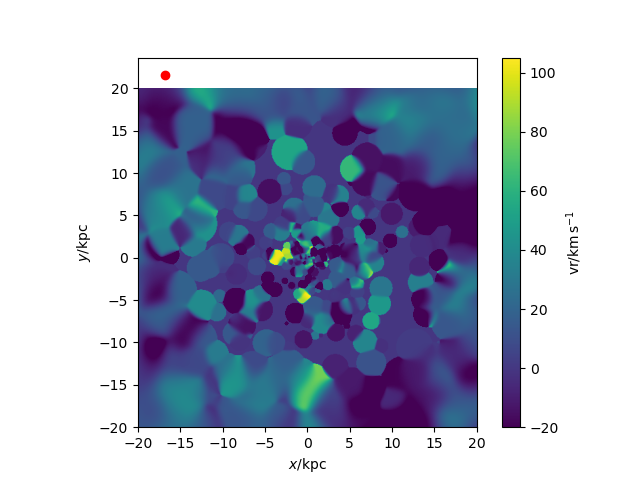
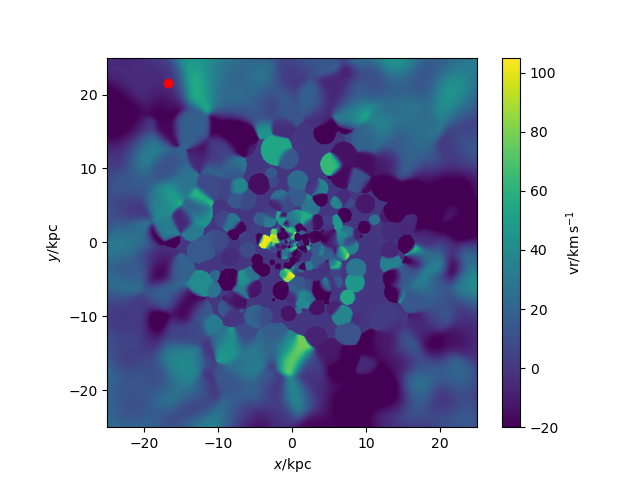
axis updated

diff --git a/r306/galaxy306_iongas.py b/r306/galaxy306_iongas.py
@@ -13,13 +13,14 @@ s=pynbody.load('/mnt/data0/jillian/gguaman/r306/cosmo25p.768sg1bwK1BHe75.007779'
 s.physical_units()
 
 #centering halo
-pynbody.analysis.angmom.faceon(s)
+#pynbody.analysis.angmom.faceon(s)
+pynbody.analysis.angmom.sideon(s)
 
 #filter to only use ionised gas
 GasFilter = pynbody.filt.HighPass('temp','15848 K')
 
 #creating image to show velocity of ionised gas
-sph.image(s.g[GasFilter],qty="vr",vmin=-20,width=40,denoise=True,approximate_fast=False,log=False)
+sph.image(s.g[GasFilter],qty="vr",vmin=-20,width=50,denoise=True,approximate_fast=False,log=False)
 
 #function to find BH
 def findBH(s):
@@ -52,4 +53,5 @@ BHz=BHposition[[0],2]
 plt.plot(BHx,BHy, 'ro')
 
 #plt.show()
-plt.savefig("galaxy306_iongas.png")
+#plt.savefig("galaxy306_iongas.png")
+plt.savefig("galaxy306_iongas(side).png")

diff --git a/r306/galaxy306_velocity.py b/r306/galaxy306_velocity.py
@@ -12,10 +12,11 @@ s=pynbody.load('/mnt/data0/jillian/gguaman/r306/cosmo25p.768sg1bwK1BHe75.007779'
 s.physical_units()
 
 #centering halo
-pynbody.analysis.angmom.faceon(s)
+#pynbody.analysis.angmom.faceon(s)
+pynbody.analysis.angmom.sideon(s)
 
 #creating gas velocity plot
-sph.image(s.g,qty="vr",width=40,denoise=True,approximate_fast=False,log=False)
+sph.image(s.g,qty="vr",width=50,denoise=True,approximate_fast=False,log=False)
 
 #function to find BH
 def findBH(s):
@@ -48,4 +49,5 @@ BHz=BHposition[[0],2]
 plt.plot(BHx,BHy, 'ro')
 
 #plt.show()
-plt.savefig("galaxy306_velocity.png")
+#plt.savefig("galaxy306_velocity.png")
+plt.savefig("galaxy306_velocity(side).png")

diff --git a/r306/galaxy306_temp.py b/r306/galaxy306_temp.py
@@ -12,10 +12,11 @@ s=pynbody.load('/mnt/data0/jillian/gguaman/r306/cosmo25p.768sg1bwK1BHe75.007779'
 s.physical_units()
 
 #centering halo
-pynbody.analysis.angmom.faceon(s)
+#pynbody.analysis.angmom.faceon(s)
+pynbody.analysis.angmom.sideon(s)
 
 #creating slice to show gas temp
-sph.image(s.g,qty="temp",width=40,denoise=True,approximate_fast=False,log=True)
+sph.image(s.g,qty="temp",width=50,denoise=True,approximate_fast=False,log=True)
 
 #function to find BH
 def findBH(s):
@@ -48,4 +49,5 @@ BHz=BHposition[[0],2]
 plt.plot(BHx,BHy, 'ro')
 
 #plt.show()
-plt.savefig("galaxy306_temp.png")
+#plt.savefig("galaxy306_temp.png")
+plt.savefig("galaxy306_temp(side).png")

diff --git a/r306/galaxy306_dens.py b/r306/galaxy306_dens.py
@@ -10,10 +10,11 @@ s=pynbody.load('/mnt/data0/jillian/gguaman/r306/cosmo25p.768sg1bwK1BHe75.007779'
 s.physical_units()
 
 #centering halo and aligning disk
-pynbody.analysis.angmom.faceon(s)
+#pynbody.analysis.angmom.faceon(s)
+pynbody.analysis.angmom.sideon(s)
 
 #creating gas density slice
-sph.image(s.g,qty="rho",units="g cm^-3",width=40)
+sph.image(s.g,qty="rho",units="g cm^-3",width=50)
 
 #function to find BH
 def findBH(s):
@@ -46,4 +47,5 @@ BHz=BHposition[[0],2]
 plt.plot(BHx,BHy, 'ro')
 
 #plt.show()
-plt.savefig("galaxy306_dens.png")
+#plt.savefig("galaxy306_dens.png")
+plt.savefig("galaxy306_dens(side).png")

diff --git a/r306/galaxy306_stars.py b/r306/galaxy306_stars.py
@@ -10,10 +10,12 @@ s=pynbody.load('/mnt/data0/jillian/gguaman/r306/cosmo25p.768sg1bwK1BHe75.007779'
 s.physical_units()
 
 #centering halo
-pynbody.analysis.angmom.faceon(s)
+#pynbody.analysis.angmom.faceon(s)
+pynbody.analysis.angmom.sideon(s)
 
 #creating image using default bands(i,v,u)
-pynbody.plot.stars.render(s,width='12 kpc')
+pynbody.plot.stars.render(s,width='50 kpc')
 
 #plt.show()
-plt.savefig("galaxy306_stars.png")
+#plt.savefig("galaxy306_stars.png")
+plt.savefig("galaxy306_stars(side).png")
